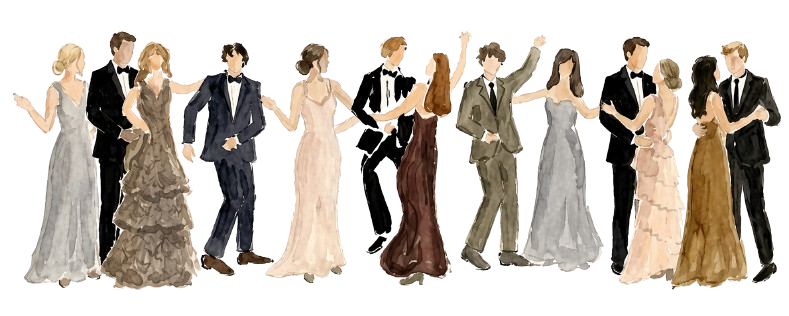
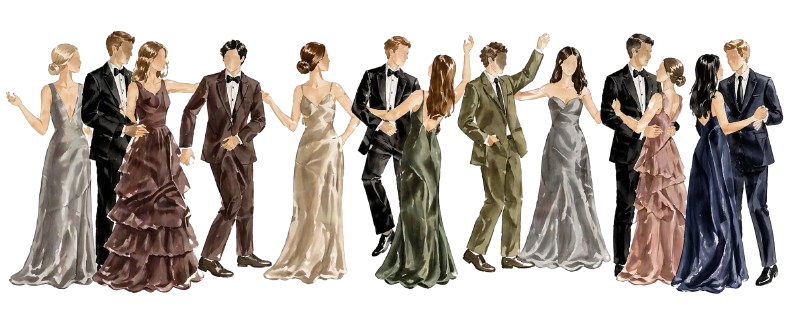
add new dress code image and palette; enhance countdown section with dynamic guest name; update couple photo styles; refine RSVP form name handling; improve guest name trimming in store; adjust global styles for background color

diff --git a/src/features/personalization/decodeGuest.ts b/src/features/personalization/decodeGuest.ts
@@ -1,56 +1,68 @@
-import { importJWK, jwtVerify } from 'jose'
 import type { GuestIdentity } from '@/stores/guest'
 
-function base64UrlToUint8Array(segment: string): Uint8Array {
-  let b64 = segment.replace(/-/g, '+').replace(/_/g, '/')
-  const pad = b64.length % 4
-  if (pad) b64 += '='.repeat(4 - pad)
-  const binary = atob(b64)
-  const out = new Uint8Array(binary.length)
-  for (let i = 0; i < binary.length; i++) out[i] = binary.charCodeAt(i)
-  return out
-}
+const ID_HEX_PREFIX_LENGTH = 16
 
-function decodeSimplePayload(g: string): GuestIdentity | null {
+function base64UrlToUint8Array(segment: string): Uint8Array | null {
   try {
-    const bytes = base64UrlToUint8Array(g)
-    const text = new TextDecoder().decode(bytes)
-    const data: unknown = JSON.parse(text)
-    if (!data || typeof data !== 'object') return null
-    const rec = data as Record<string, unknown>
-    const id = rec.id
-    const name = rec.name
-    if (typeof id !== 'string' || typeof name !== 'string' || !id || !name) return null
-    return { id, name }
+    let b64 = segment.replace(/-/g, '+').replace(/_/g, '/')
+    const pad = b64.length % 4
+    if (pad) b64 += '='.repeat(4 - pad)
+    const binary = atob(b64)
+    const out = new Uint8Array(binary.length)
+    for (let i = 0; i < binary.length; i++) {
+      out[i] = binary.charCodeAt(i)
+    }
+    return out
   } catch {
     return null
   }
 }
 
-async function verifyGuestJwt(token: string, jwkJson: string): Promise<GuestIdentity | null> {
+function uint8ArrayToBase64Url(bytes: Uint8Array): string {
+  let binary = ''
+  for (const byte of bytes) {
+    binary += String.fromCharCode(byte)
+  }
+  return btoa(binary).replace(/\+/g, '-').replace(/\//g, '_').replace(/=+$/, '')
+}
+
+function decodeUtf8Strict(bytes: Uint8Array): string | null {
   try {
-    const jwk = JSON.parse(jwkJson) as Record<string, unknown>
-    if (!jwk || typeof jwk !== 'object') return null
-    const key = await importJWK(jwk, 'RS256')
-    const { payload } = await jwtVerify(token, key)
-    const sub = payload.sub
-    const nameClaim = payload.name
-    if (typeof sub !== 'string' || typeof nameClaim !== 'string' || !sub || !nameClaim) return null
-    return { id: sub, name: nameClaim }
+    return new TextDecoder('utf-8', { fatal: true }).decode(bytes)
   } catch {
     return null
   }
+}
+
+async function guestIdFromName(name: string): Promise<string> {
+  const bytes = new TextEncoder().encode(name)
+  const digest = new Uint8Array(await crypto.subtle.digest('SHA-256', bytes))
+  let hex = ''
+  for (const byte of digest) {
+    hex += byte.toString(16).padStart(2, '0')
+  }
+  return hex.slice(0, ID_HEX_PREFIX_LENGTH)
+}
+
+export function encodeGuestToG(name: string): string | null {
+  const trimmed = name.trim()
+  if (!trimmed) return null
+  return uint8ArrayToBase64Url(new TextEncoder().encode(trimmed))
 }
 
 export async function decodeGuestFromG(g: string): Promise<GuestIdentity | null> {
   const trimmed = g.trim()
   if (!trimmed) return null
 
-  const jwkRaw = import.meta.env.VITE_JWT_PUBLIC_JWK
-  if (jwkRaw && trimmed.split('.').length === 3) {
-    const fromJwt = await verifyGuestJwt(trimmed, jwkRaw)
-    if (fromJwt) return fromJwt
-  }
+  const bytes = base64UrlToUint8Array(trimmed)
+  if (!bytes) return null
 
-  return decodeSimplePayload(trimmed)
+  const decoded = decodeUtf8Strict(bytes)
+  if (decoded === null) return null
+
+  const name = decoded.trim()
+  if (!name) return null
+
+  const id = await guestIdFromName(name)
+  return { id, name }
 }

diff --git a/src/features/rsvp/RsvpSection.vue b/src/features/rsvp/RsvpSection.vue
@@ -13,9 +13,21 @@ const { guestId, guestName } = storeToRefs(guestStore)
 
 const validationSchema = toTypedSchema(rsvpFormSchema)
 
+/** First word dropped for RSVP name field default; single-word names stay as-is. */
+function rsvpInitialFullNameFromGuestName(name: string | null): string {
+  if (name === null) return ''
+  const trimmed = name.trim()
+  const firstSpace = trimmed.search(/\s/)
+  if (firstSpace === -1) {
+    return trimmed
+  }
+  const afterFirst = trimmed.slice(firstSpace + 1).trim()
+  return afterFirst === '' ? trimmed : afterFirst
+}
+
 const initialValues = computed(() => ({
   attendance: '' as '' | 'yes' | 'no',
-  fullName: guestName.value ?? '',
+  fullName: rsvpInitialFullNameFromGuestName(guestName.value),
   dietary: '',
   message: '',
   website: '',
@@ -90,7 +102,7 @@ async function onSubmit(values: Record<string, unknown>): Promise<void> {
           <Field type="text" name="website" class="hp" autocomplete="off" tabindex="-1" />
             
             <label class="field">
-              <span class="label">Ваше имя (+ имя партнёра) *</span>
+              <span class="label">Имя гостя(ей) *</span>
               <Field name="fullName" v-slot="{ field, errors }">
                 <input v-bind="field" type="text" class="input" autocomplete="name" />
                 <span v-if="errors[0]" class="err">{{ errors[0] }}</span>

diff --git a/src/features/invitation/CountdownSection.vue b/src/features/invitation/CountdownSection.vue
@@ -1,7 +1,17 @@
 <script setup lang="ts">
-import { onMounted, onUnmounted, ref } from 'vue'
+import { storeToRefs } from 'pinia'
+import { computed, onMounted, onUnmounted, ref } from 'vue'
 import ScrollReveal from '@/components/ScrollReveal.vue'
 import { weddingEventStart } from '@/setting'
+import { useGuestStore } from '@/stores/guest'
+
+const DEFAULT_COUNTDOWN_HEADING = 'Дорогие родные и близкие'
+
+const { guestName } = storeToRefs(useGuestStore())
+const countdownHeading = computed(() => {
+  const name = guestName.value?.trim()
+  return name !== undefined && name.length > 0 ? name : DEFAULT_COUNTDOWN_HEADING
+})
 
 const target = weddingEventStart.getTime()
 
@@ -39,7 +49,7 @@ onUnmounted(() => {
   <section id="countdown" class="section countdown" aria-labelledby="countdown-heading">
     <ScrollReveal>
       <div class="inner">
-      <h2 id="countdown-heading" class="heading-script">Дорогие родные и близкие</h2>
+      <h2 id="countdown-heading" class="heading-script">{{ countdownHeading }}</h2>
       <p class="sub">
         Совсем скоро наступит значимый и долгожданный для нас день - наша свадьба! 
         Мы будем счастливы разделить его в кругу особенно дорогих нам людей. <br><br>

diff --git a/src/features/invitation/GiftsSection.vue b/src/features/invitation/GiftsSection.vue
@@ -22,9 +22,6 @@ import flowerBouquetUrl from '@/assets/flower-bouquet.png'
             Если же вам захочется порадовать нас цветами, вы можете оформить для нас цветочную подписку - тогда после свадьбы мы будем получать букеты от вас и ещё долго вспоминать этот особенный день.
             <br>
             <br>
-            <a href="" target="_blank" rel="noopener noreferrer">Ссылка на цветочный сервис<ExternalLinkIcon /></a>
-            <br>
-            <br>
             <hr />
             <br>
             Мы безмерно любим малышей и подростков, но этот день мы хотим провести в атмосфере взрослого уюта и спокойствия. Пусть это будет вечер, когда вы сможете отдохнуть, потанцевать и насладиться праздником без забот.

diff --git a/src/features/invitation/HeroSection.vue b/src/features/invitation/HeroSection.vue
@@ -1,17 +1,10 @@
 <script setup lang="ts">
 import { storeToRefs } from 'pinia'
-import { computed } from 'vue'
 import villaImageUrl from '@/assets/villa-image.png'
 import { weddingHeroDateRu, weddingHeroNames } from '@/setting'
-import { useGuestStore } from '@/stores/guest'
 import { useUiStore } from '@/stores/ui'
 
-const { guestName } = storeToRefs(useGuestStore())
 const { introHidden } = storeToRefs(useUiStore())
-
-const greeting = computed(() =>
-  guestName.value ? `${guestName.value}, мы ждём вас!` : null,
-)
 
 </script>
 
@@ -33,7 +26,6 @@ const greeting = computed(() =>
     >
       <h1 class="names">{{ weddingHeroNames }}</h1>
       <p class="date">{{ weddingHeroDateRu }}</p>
-      <p class="greeting">{{ greeting }}</p>
     </div>
   </section>
 </template>

diff --git a/src/features/invitation/DressCodeColorPalette.vue b/src/features/invitation/DressCodeColorPalette.vue
@@ -7,9 +7,11 @@ import dressPalette05 from '@/assets/dress-palette-200/dress-palette-05.jpg'
 import dressPalette06 from '@/assets/dress-palette-200/dress-palette-06.jpg'
 import dressPalette07 from '@/assets/dress-palette-200/dress-palette-07.jpg'
 import dressPalette08 from '@/assets/dress-palette-200/dress-palette-08.jpg'
+import dressPalette09 from '@/assets/dress-palette-200/dress-palette-09.jpeg'
 
 /** Cropped 200×200 sources in sorted `photo_2026-*` order. */
 const PALETTE_IMAGE_URLS: readonly [
+  string,
   string,
   string,
   string,
@@ -27,6 +29,7 @@ const PALETTE_IMAGE_URLS: readonly [
   dressPalette06,
   dressPalette07,
   dressPalette08,
+  dressPalette09,
 ] as const
 </script>
 

diff --git a/src/features/invitation/CouplePhotoSection.vue b/src/features/invitation/CouplePhotoSection.vue
@@ -36,11 +36,12 @@ import couplePhotoUrl from '@/assets/leyla_alexander_photo.jpeg'
   inset: 0;
   z-index: 0;
   display: block;
-  width: 100%;
+  max-width: min(var(--invitation-card-column-max-width), 100%);
+  margin: 0 auto;
   height: 100%;
-  max-width: none;
   object-fit: cover;
   object-position: center;
+  border-radius: var(--invitation-card-radius) var(--invitation-card-radius) 0 0;
 }
 
 .couple-photo-overlay {
@@ -58,7 +59,6 @@ import couplePhotoUrl from '@/assets/leyla_alexander_photo.jpeg'
   margin: 0;
   font-family: var(--font-accent);
   font-size: 1.7em;
-  line-height: 1.4;
   color: var(--color-ivory);
   text-shadow: 0 0 1.5rem rgba(0, 0, 0), 1px 1px 8px rgba(0, 0, 0);
 }

diff --git a/src/stores/guest.ts b/src/stores/guest.ts
@@ -12,7 +12,7 @@ export const useGuestStore = defineStore('guest', () => {
 
   function setGuest(payload: GuestIdentity): void {
     guestId.value = payload.id
-    guestName.value = payload.name
+    guestName.value = payload.name.trim()
   }
 
   return { guestId, guestName, setGuest }

diff --git a/src/styles/global.css b/src/styles/global.css
@@ -63,7 +63,7 @@ body {
   font-weight: 200;
   color: var(--color-sage-dark);
   -webkit-font-smoothing: antialiased;
-  background-color:rgb(88, 95, 60);
+  background-color: var(--color-ivory)
 }
 
 #app {
